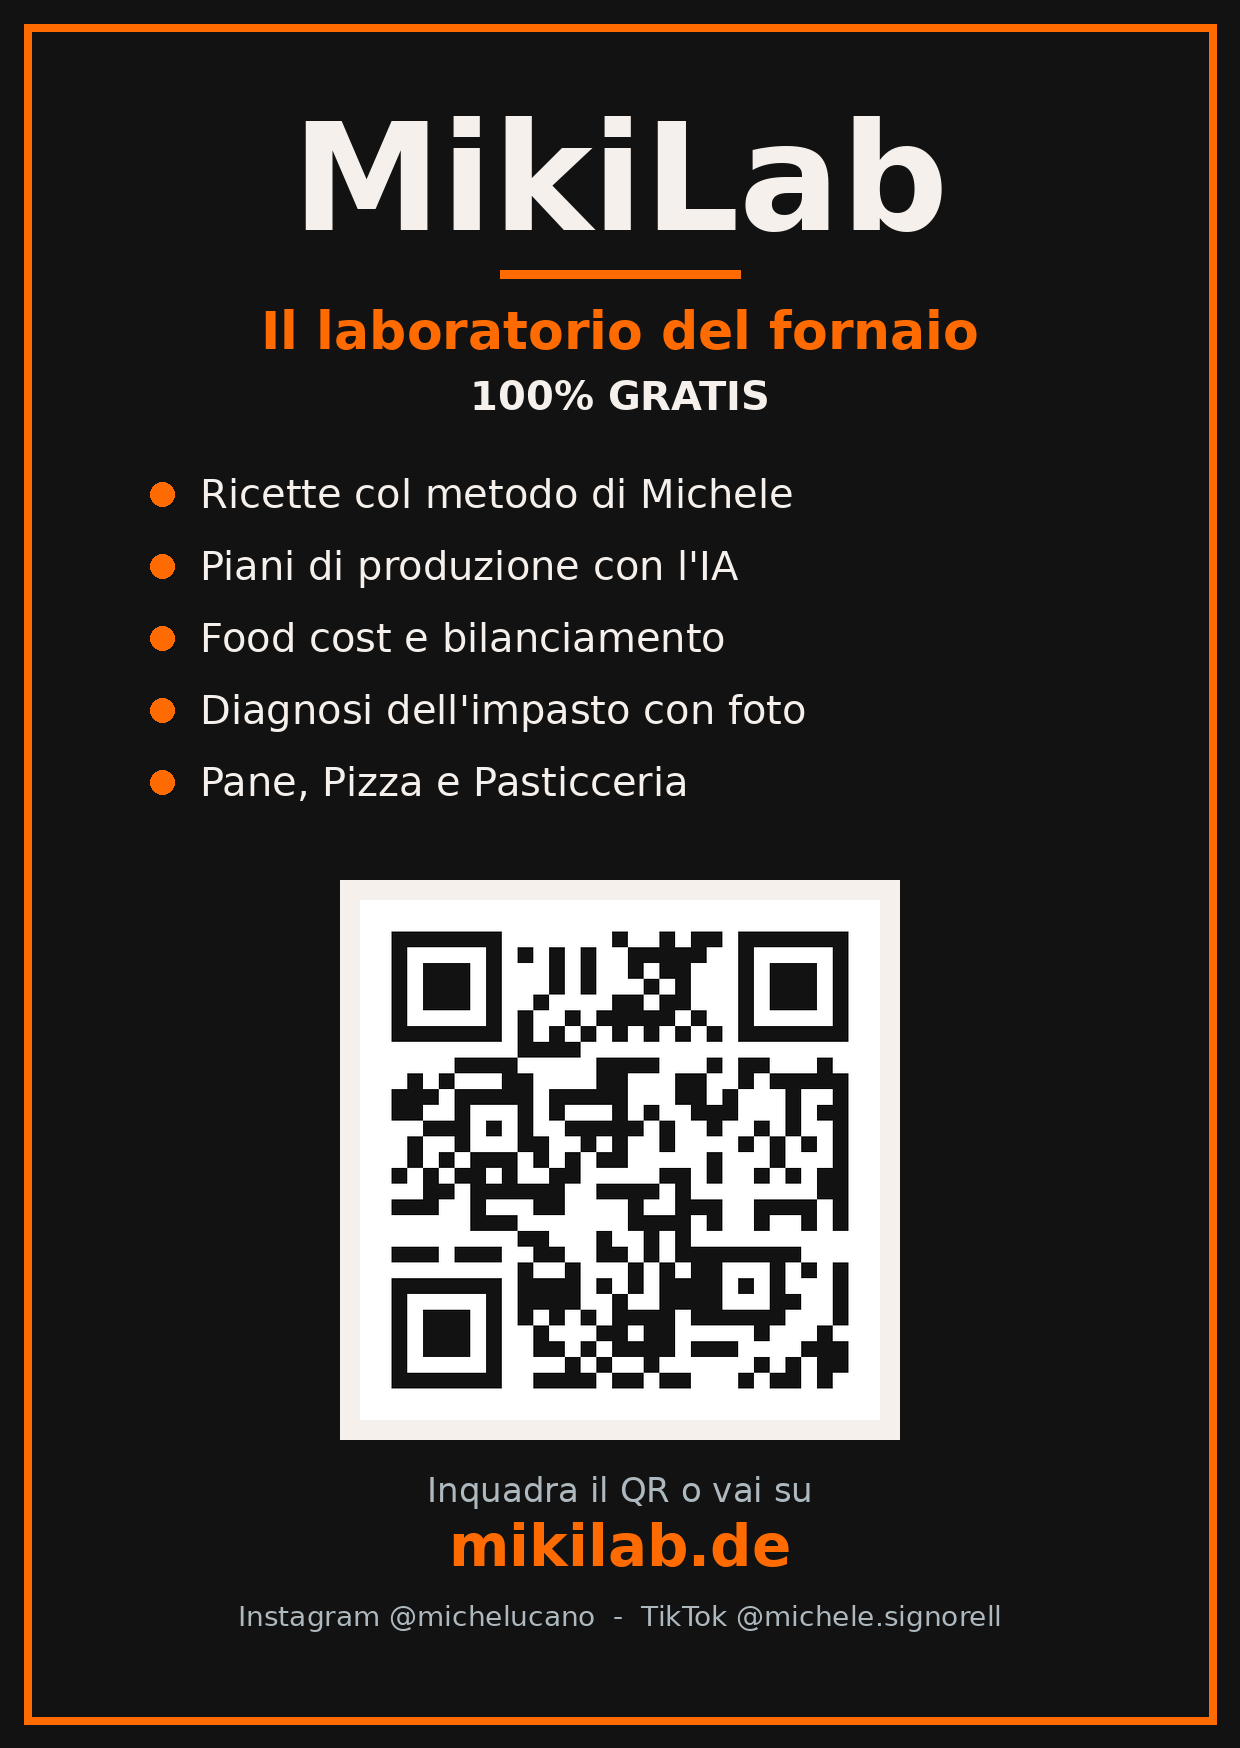
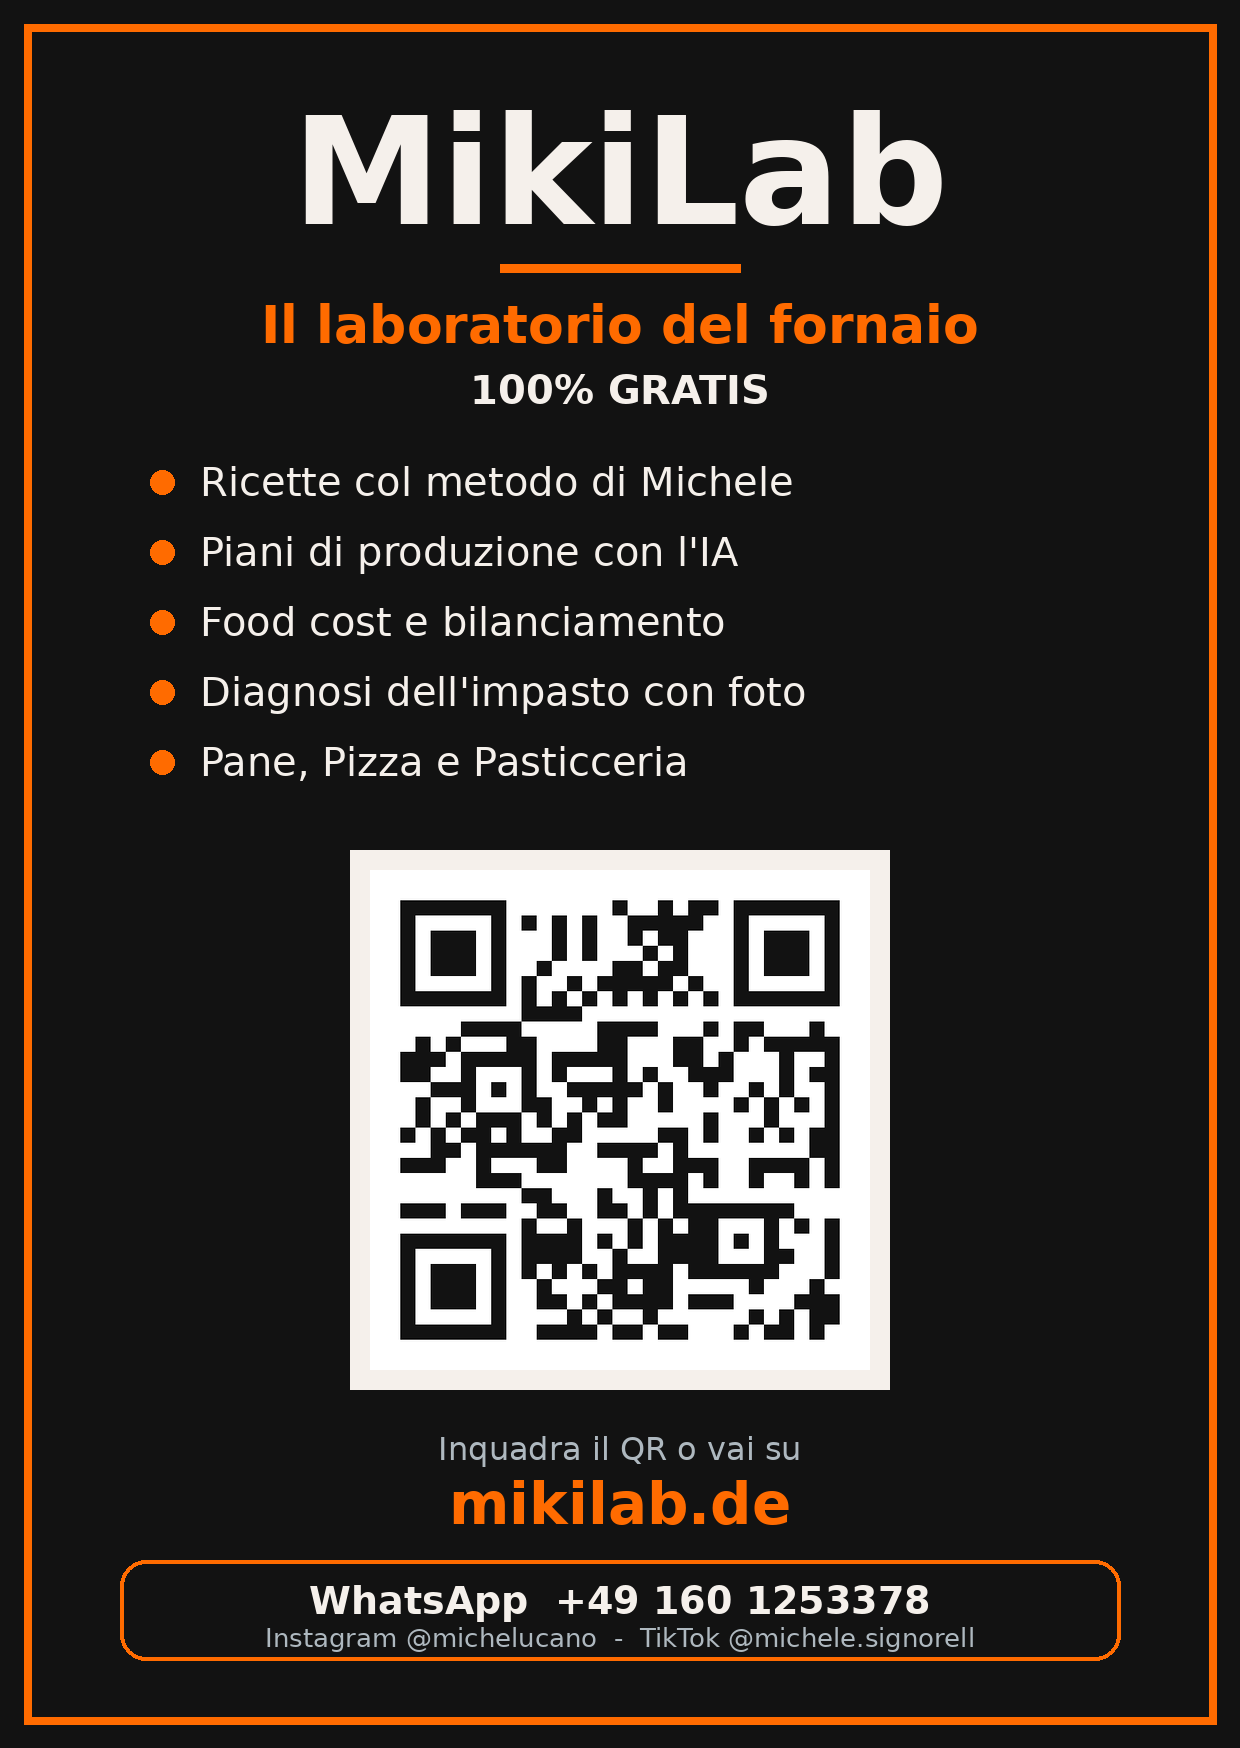
## Traduzioni + locandina con contatto + cover stagionali ✅ — in pubblicazione
- **Traduzioni FR/FA**: aggiunti i nomi dei mesi della Hall of Fame in francese e persiano; i proverbi della community ora ripiegano sull'inglese (invece dell'italiano) per gli utenti FR/FA.
- **Locandina A5 aggiornata**: ora riporta il tuo contatto **WhatsApp +49 160 1253378** + @michelucano / @michele.signorell. Scaricabile dalla card "Promuovi MikiLab".
- **Cover stagionali**: create due cover verticali 9:16 pronte — **Natale · Panettone** (oro) e **Pasqua · Colomba** (arancio) — con i pulsanti di download nel Kit Reel.

Tutto compila senza errori; immagini verificate a schermo (testo nitido, brand coerente). Ripubblicazione in coda su mikilab.de.

### Next Action Items
- **Badge nel Profilo**: Mostro le coccarde streak e i titoli Hall of Fame nella scheda profilo di ogni fornaio
- **Contatore Iscritti**: Aggiungo in Home un contatore "fornai iscritti" come riprova sociale che spinge le iscrizioni
- **Post Stagionali Pronti**: Fammi scrivere didascalie e hashtag dedicati per le campagne Panettone e Colomba
- **Cover Extra**: Creo cover per altre occasioni (Estate/Focacce, San Valentino, Halloween) sullo stesso stile

Potential improvement: quando pubblichi il primo Reel con la cover stagionale, mandami il link — posso ottimizzare hook e didascalia in base a cosa genera più visualizzazioni.

diff --git a/frontend/src/components/PromuoviMikiLab.jsx b/frontend/src/components/PromuoviMikiLab.jsx
@@ -194,6 +194,15 @@ export default function PromuoviMikiLab() {
                   <Download className="w-4 h-4" /> {L("Cover 9:16", "Cover 9:16", "9:16 cover", "Portada 9:16", "Cover 9:16", "کاور ۹:۱۶")}
                 </a>
               </div>
+              <p className="text-[11px] font-extrabold uppercase tracking-wider text-[#ff6b00] mt-3 mb-1.5">{L("Cover stagionali", "Saisonale Cover", "Seasonal covers", "Portadas de temporada", "Covers saisonnières", "کاورهای فصلی")}</p>
+              <div className="grid grid-cols-2 gap-2">
+                <a data-testid="promuovi-cover-panettone" href={`${process.env.PUBLIC_URL}/reel-cover-panettone.png`} download="mikilab-panettone.png" className="flex items-center justify-center gap-2 rounded-xl border border-[#ff6b00]/40 text-white font-semibold py-2.5 text-sm active:scale-95">
+                  <Download className="w-4 h-4 text-[#ff6b00]" /> {L("Natale · Panettone", "Weihnachten", "Christmas", "Navidad", "Noël", "کریسمس")}
+                </a>
+                <a data-testid="promuovi-cover-colomba" href={`${process.env.PUBLIC_URL}/reel-cover-colomba.png`} download="mikilab-colomba.png" className="flex items-center justify-center gap-2 rounded-xl border border-[#ff6b00]/40 text-white font-semibold py-2.5 text-sm active:scale-95">
+                  <Download className="w-4 h-4 text-[#ff6b00]" /> {L("Pasqua · Colomba", "Ostern", "Easter", "Pascua", "Pâques", "عید پاک")}
+                </a>
+              </div>
             </div>
           )}
         </div>

diff --git a/frontend/src/components/HallOfFame.jsx b/frontend/src/components/HallOfFame.jsx
@@ -9,6 +9,8 @@ const MONTHS = {
   en: ["January", "February", "March", "April", "May", "June", "July", "August", "September", "October", "November", "December"],
   de: ["Januar", "Februar", "März", "April", "Mai", "Juni", "Juli", "August", "September", "Oktober", "November", "Dezember"],
   es: ["Enero", "Febrero", "Marzo", "Abril", "Mayo", "Junio", "Julio", "Agosto", "Septiembre", "Octubre", "Noviembre", "Diciembre"],
+  fr: ["Janvier", "Février", "Mars", "Avril", "Mai", "Juin", "Juillet", "Août", "Septembre", "Octobre", "Novembre", "Décembre"],
+  fa: ["ژانویه", "فوریه", "مارس", "آوریل", "مه", "ژوئن", "ژوئیه", "اوت", "سپتامبر", "اکتبر", "نوامبر", "دسامبر"],
 };
 
 const medal = (r) => (r === 1 ? "🥇" : r === 2 ? "🥈" : r === 3 ? "🥉" : `#${r}`);

diff --git a/frontend/src/components/MikilaWisdom.jsx b/frontend/src/components/MikilaWisdom.jsx
@@ -100,7 +100,7 @@ export default function MikilaWisdom({ section = "home" }) {
   const pool = useMemo(() => {
     const own = base.map((t) => ({ text: mkTri(lang)(t[0], t[1], t[2], t[3], t[4], t[5]), author: null, id: null }));
     const com = community.map((c) => ({
-      text: (lang === "de" ? (c.text_de || c.text) : lang === "en" ? (c.text_en || c.text) : lang === "es" ? (c.text_es || c.text) : c.text),
+      text: (lang === "de" ? (c.text_de || c.text) : lang === "en" ? (c.text_en || c.text) : lang === "es" ? (c.text_es || c.text) : lang === "it" ? c.text : (c.text_en || c.text)),
       author: c.author_name, id: c.id, likeCount: c.like_count, likedByMe: c.liked_by_me,
     }));
     return [...com, ...own]; // i proverbi della community (più votati) compaiono per primi
